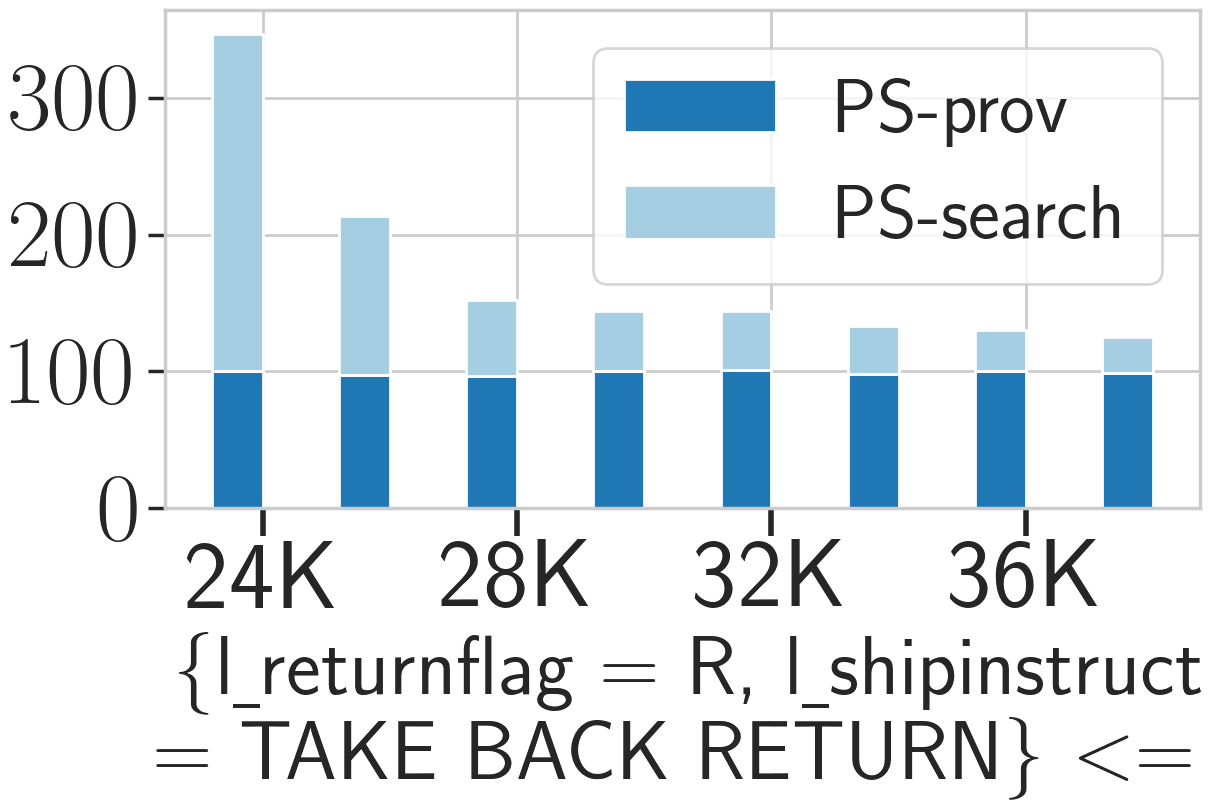
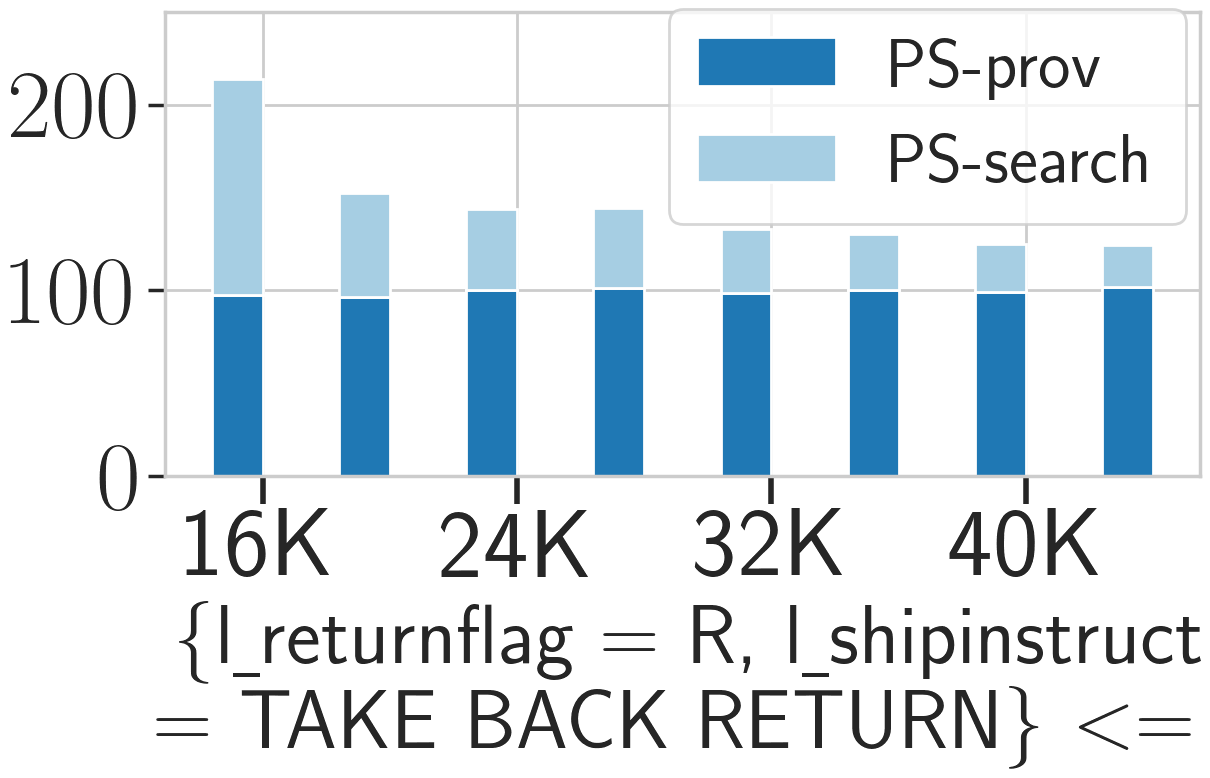
10G constraint change q12 refine3

diff --git a/Experiment/TPCH/10G/constraint_change/q12_refine3/fig.py b/Experiment/TPCH/10G/constraint_change/q12_refine3/fig.py
@@ -60,7 +60,7 @@ def run(query, size, constraint):
             execution_timebl1.append(0)
             execution_timebl2.append(0)
     # x_list = [19941230, 19950115, 19950130, 19950215, 19950230, 19950315, 19950330, 19950415]
-    x_list = ['24K', '28K',  '32K',  '36K']
+    x_list = ['16K', '24K',  '32K',  '40K']
 
     print(x_list, execution_timeps1, execution_timeps2)
 
@@ -84,11 +84,13 @@ def run(query, size, constraint):
     #
     plt.xticks(np.arange(0, 8, 2) + bar_width/2, x_list, rotation=0, fontsize=70)
     plt.yticks(fontsize=70, weight='bold')
+    plt.ylim(0, 250)
 
     plt.xlabel(r'\{l\underline{ }returnflag = R, l\underline{ }shipinstruct\\ = TAKE BACK RETURN\} $<=$', fontsize=60)
     # plt.ylabel('Running time (s)')
-    # plt.legend(loc='upper right', bbox_to_anchor=(0.98, 0.55))
-    plt.legend(loc="best", fontsize=55)
+    # plt.legend(loc="lower right", bbox_to_anchor=(0.6, -0.05), fontsize=50)
+    plt.legend(loc="upper right", bbox_to_anchor=(1.02, 1.08), fontsize=50)
+
     plt.tight_layout()
     fig_path = "constraint_change_q" + str(query) + "_" + size + "_" + constraint + ".png"
 

diff --git a/Experiment/TPCH/10G/constraint_change/q12_refine3/constraint_change_q12_refine.py b/Experiment/TPCH/10G/constraint_change/q12_refine3/constraint_change_q12_refine.py
@@ -41,7 +41,7 @@ def run_constraint(q, c):
     result_output = open(result_output_file, "w")
     result_output.write("selection file, result\n")
 
-    for i in range(9, 10):
+    for i in range(2, 10):
         print("constraint {}\n".format(i))
         constraint_file = r"./constraint_" + c + str(i) + ".json"
         print("========================== provenance search ===================================")
